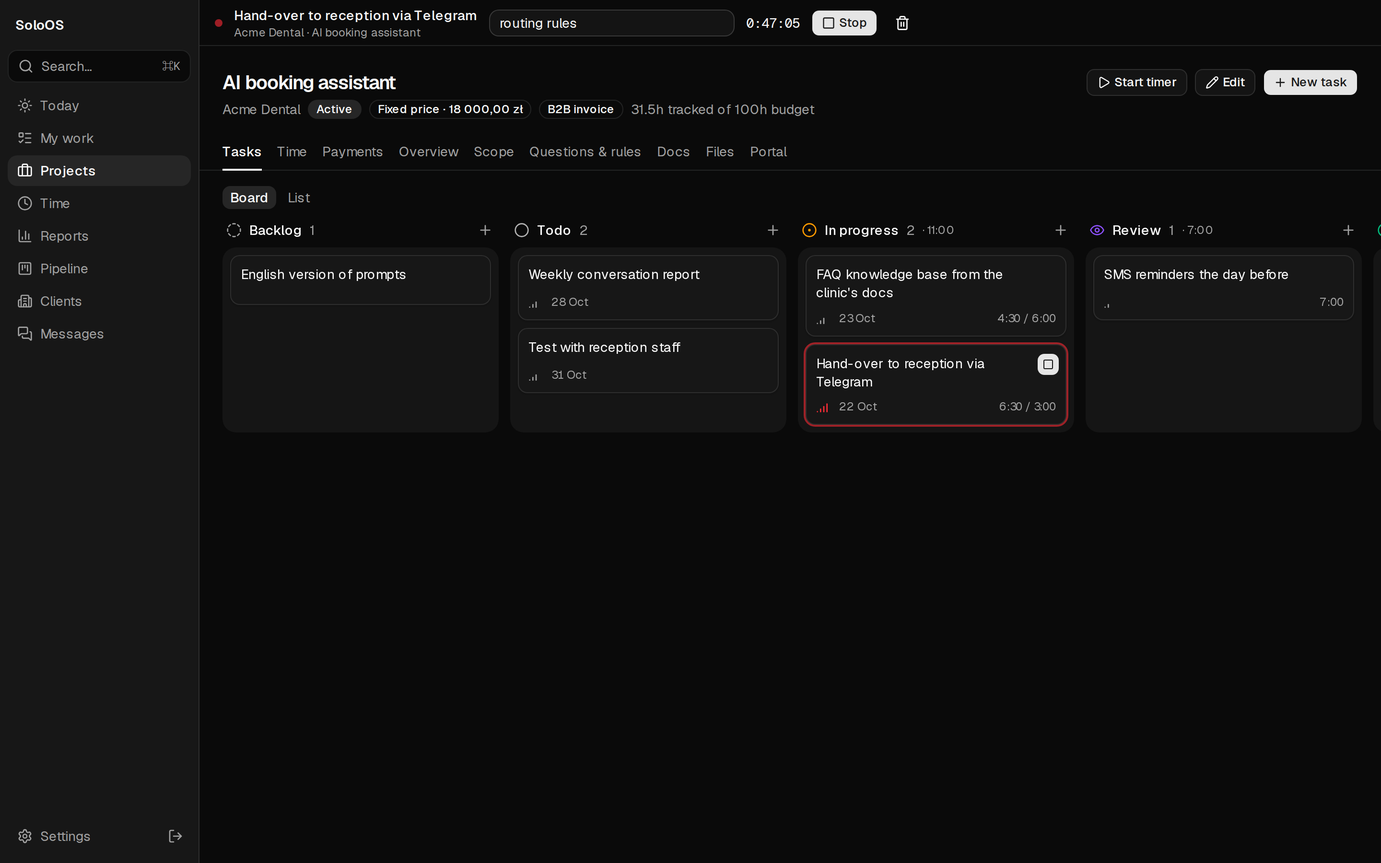
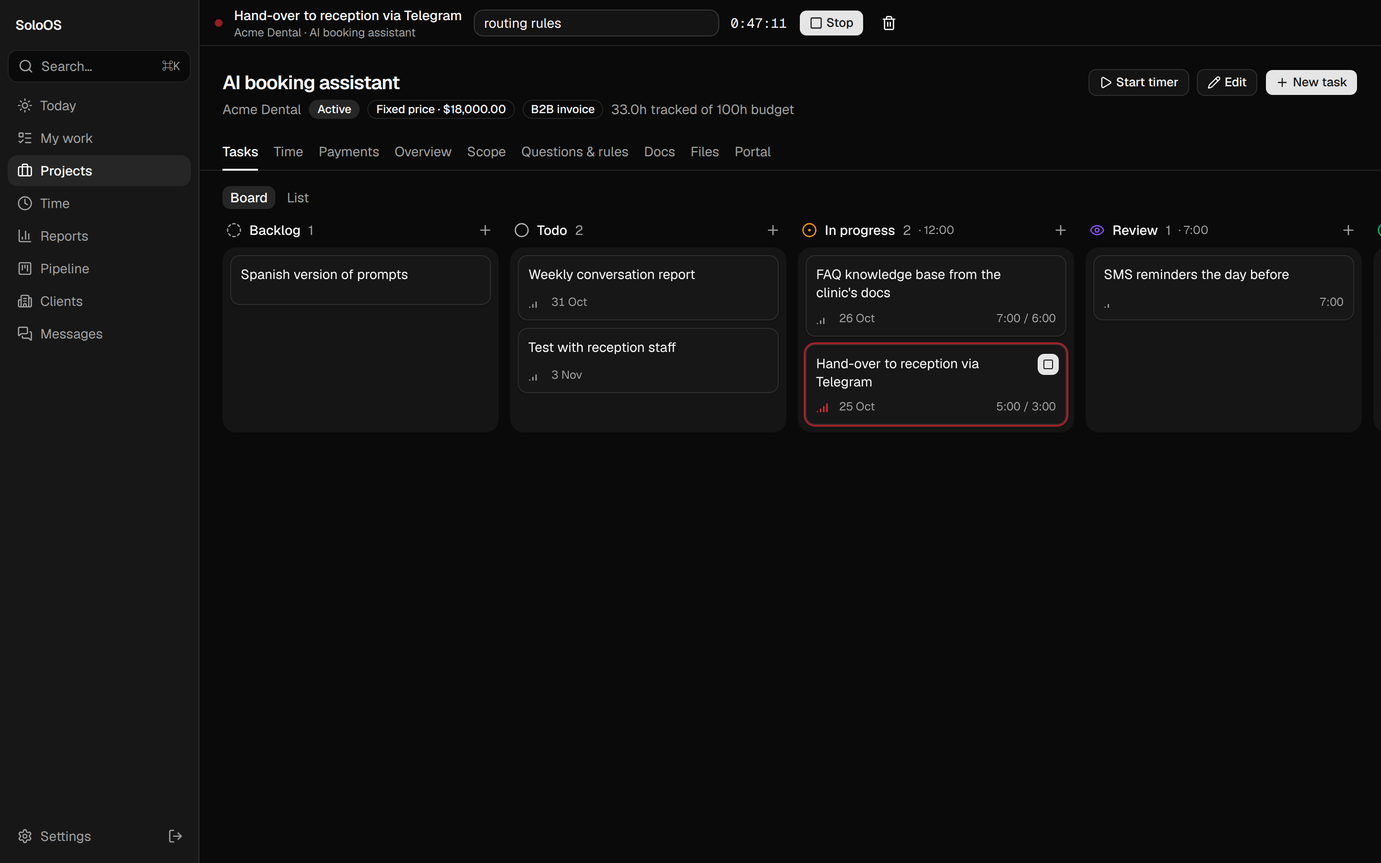
README media in English with USD; sharper font rendering
Demo data is now English with dollar prices; the media script renders fonts
without heavy hinting and records English chats and the English portal.

diff --git a/scripts/demo-seed.ts b/scripts/demo-seed.ts
@@ -1,4 +1,4 @@
-// Fills a database with made-up clients, projects, time and messages for screenshots and demos.
+// Fills a database with made-up clients (in English, prices in USD), projects, time and messages for screenshots and demos.
 // Only runs against a database whose name contains "demo"; wipes it first.
 // Usage: DATABASE_URL=postgres://127.0.0.1:5432/soloos_demo pnpm db:migrate && DATABASE_URL=… pnpm demo:seed
 import "dotenv/config";
@@ -31,26 +31,26 @@ async function main() {
   await wipe();
 
   // ---------- Clients ----------
-  const [personal, acme, northwind, lumen, kowalski, greenfit] = await db
+  const [personal, acme, northwind, lumen, kestrel, greenfit] = await db
     .insert(s.organizations)
     .values([
-      { name: "Personal", kind: "person", status: "internal", notesMd: "Personal and side projects." },
-      { name: "Acme Dental", status: "active", website: "https://acme-dental.example", defaultRate: 18000, notesMd: "Three clinics in Kraków. Decisions go through Anna; IT questions to Tomek." },
-      { name: "Northwind Bakery", status: "active", website: "https://northwind.example", defaultRate: 16000, notesMd: "Online shop + 2 cafés. Pays on time." },
-      { name: "Studio Lumen", status: "past", website: "https://lumen.example", defaultRate: 15000 },
-      { name: "Kowalski Logistics", status: "lead", website: "https://kowalski-logistics.example" },
-      { name: "GreenFit Gym", status: "lead" },
+      { name: "Personal", kind: "person", status: "internal", currency: "USD", notesMd: "Personal and side projects." },
+      { name: "Acme Dental", status: "active", website: "https://acme-dental.example", currency: "USD", defaultRate: 9500, notesMd: "Three clinics in Austin. Decisions go through Sarah; IT questions to Tom." },
+      { name: "Northwind Bakery", status: "active", website: "https://northwind.example", currency: "USD", defaultRate: 8500, notesMd: "Online shop + 2 cafés. Pays on time." },
+      { name: "Studio Lumen", status: "past", website: "https://lumen.example", currency: "USD", defaultRate: 8000 },
+      { name: "Kestrel Logistics", status: "lead", currency: "USD", website: "https://kestrel-logistics.example" },
+      { name: "GreenFit Gym", status: "lead", currency: "USD" },
     ])
     .returning();
-  const [cAnna, cTomek, cOla, , cPiotr, cKasia] = await db
+  const [cSarah, cTom, cOlivia, , cPeter, cKate] = await db
     .insert(s.contacts)
     .values([
-      { orgId: acme.id, name: "Anna Wiśniewska", role: "Practice manager", emails: ["anna@acme-dental.example"], phone: "+48 600 100 200" },
-      { orgId: acme.id, name: "Tomek Zieliński", role: "IT", emails: ["it@acme-dental.example"], telegram: "@tomek_it" },
-      { orgId: northwind.id, name: "Ola Nowicka", role: "Owner", emails: ["ola@northwind.example"] },
-      { orgId: lumen.id, name: "Marek Lis", role: "Creative director", emails: ["marek@lumen.example"] },
-      { orgId: kowalski.id, name: "Piotr Kowalski", role: "CEO", emails: ["piotr@kowalski-logistics.example"] },
-      { orgId: greenfit.id, name: "Kasia Mazur", role: "Manager", facebookUrl: "https://facebook.com/kasia.mazur.example" },
+      { orgId: acme.id, name: "Sarah Miller", role: "Practice manager", emails: ["sarah@acme-dental.example"], phone: "+1 512 555 0142" },
+      { orgId: acme.id, name: "Tom Becker", role: "IT", emails: ["it@acme-dental.example"], telegram: "@tom_it" },
+      { orgId: northwind.id, name: "Olivia Hart", role: "Owner", emails: ["olivia@northwind.example"] },
+      { orgId: lumen.id, name: "Mark Lee", role: "Creative director", emails: ["marek@lumen.example"] },
+      { orgId: kestrel.id, name: "Peter Grant", role: "CEO", emails: ["peter@kestrel-logistics.example"] },
+      { orgId: greenfit.id, name: "Kate Moore", role: "Manager", facebookUrl: "https://facebook.com/kate.moore.example" },
     ])
     .returning();
 
@@ -65,13 +65,14 @@ async function main() {
         pricing: "fixed",
         fixedPrice: 1800000,
         budgetHours: 100,
-        hourlyRate: 18000,
+        hourlyRate: 9500,
+        currency: "USD",
         startDate: day(-34),
         dueDate: day(24),
         briefMd:
           "Chat and phone assistant that books, moves and cancels appointments for **Acme Dental** (3 clinics).\n\n- Answers FAQ (prices only from the price list, never quotes treatment costs)\n- Books into the clinic calendar via n8n\n- Hands over to reception when unsure\n\n**Done when:** 80% of booking requests handled without a human, for 2 weeks.",
         scopeMd:
-          "1. Website chat widget (PL/EN)\n2. Booking, rescheduling and cancelling through the calendar API\n3. FAQ from the clinic's knowledge base\n4. Hand-over to reception (email + Telegram)\n5. Weekly report of conversations",
+          "1. Website chat widget (English/Spanish)\n2. Booking, rescheduling and cancelling through the calendar API\n3. FAQ from the clinic's knowledge base\n4. Hand-over to reception (email + Telegram)\n5. Weekly report of conversations",
         scopeBaselinedAt: subDays(now, 30),
         portalToken: "demo-acme-portal-token-0123456789abcdefghij",
         portalProgress: true,
@@ -81,16 +82,17 @@ async function main() {
       {
         orgId: northwind.id,
         name: "Invoice automation",
-        contractType: "umowa_zlecenie",
+        contractType: "b2b",
         pricing: "hourly",
-        hourlyRate: 16000,
+        hourlyRate: 8500,
+        currency: "USD",
         budgetHours: 40,
         startDate: day(-20),
         dueDate: day(10),
         briefMd: "Shop orders → invoices in the accounting system, sent to the customer automatically. Monthly summary for the accountant.",
       },
-      { orgId: lumen.id, name: "Portfolio website", status: "done", contractType: "useme", pricing: "fixed", fixedPrice: 650000, startDate: day(-90), dueDate: day(-45) },
-      { orgId: personal.id, name: "SoloOS", pricing: "none", contractType: "internal" },
+      { orgId: lumen.id, name: "Portfolio website", status: "done", contractType: "b2b", pricing: "fixed", fixedPrice: 650000, currency: "USD", startDate: day(-90), dueDate: day(-45) },
+      { orgId: personal.id, name: "SoloOS", pricing: "none", contractType: "internal", currency: "USD" },
     ])
     .returning();
 
@@ -113,7 +115,7 @@ async function main() {
         t(booking.id, "SMS reminders the day before", "review", { priority: 1 }),
         t(booking.id, "Weekly conversation report", "todo", { priority: 2, dueDate: day(6) }),
         t(booking.id, "Test with reception staff", "todo", { priority: 2, dueDate: day(9) }),
-        t(booking.id, "English version of prompts", "backlog"),
+        t(booking.id, "Spanish version of prompts", "backlog"),
         t(invoices.id, "Map shop order fields to invoice", "done", { priority: 2 }),
         t(invoices.id, "Send invoice PDF to the customer", "in_progress", { priority: 3, dueDate: day(2) }),
         t(invoices.id, "Monthly summary for the accountant", "todo", { priority: 1, dueDate: day(8) }),
@@ -142,7 +144,8 @@ async function main() {
   const entries: (typeof s.timeEntries.$inferInsert)[] = [];
   for (let d = -35; d <= 0; d++) {
     const date = addDays(today, d);
-    if (date.getDay() === 0 || date.getDay() === 6) continue;
+    // Weekdays only, but always today, so "Today" has numbers whatever day the media is recorded.
+    if (d !== 0 && (date.getDay() === 0 || date.getDay() === 6)) continue;
     const plan: [number, number, number][] = [
       [booking.id, 9, 120 + ((d * 37) % 4) * 30],
       ...(d > -21 ? ([[invoices.id, 14, 60 + ((d * 13) % 3) * 30]] as [number, number, number][]) : []),
@@ -151,14 +154,14 @@ async function main() {
     for (const [projectId, hour, min] of plan) {
       const list = notes[projectId];
       const [taskTitle, note] = list[Math.abs(d) % list.length];
-      const rate = projectId === booking.id ? 18000 : 16000;
+      const rate = projectId === booking.id ? 9500 : 8500;
       const startedAt = at(d, hour, 15);
       entries.push({ projectId, taskId: task(taskTitle), startedAt, endedAt: new Date(+startedAt + min * 60_000), durationMin: min, note, rateSnapshot: rate });
     }
   }
   for (let d = -75; d <= -50; d += 3) {
     const startedAt = at(d, 10);
-    entries.push({ projectId: lumenSite.id, startedAt, endedAt: new Date(+startedAt + 180 * 60_000), durationMin: 180, note: "layout + CMS", rateSnapshot: 15000 });
+    entries.push({ projectId: lumenSite.id, startedAt, endedAt: new Date(+startedAt + 180 * 60_000), durationMin: 180, note: "layout + CMS", rateSnapshot: 8000 });
   }
   await db.insert(s.timeEntries).values(entries);
   await db.insert(s.runningTimer).values({
@@ -179,33 +182,33 @@ async function main() {
   // ---------- Pipeline ----------
   await db.insert(s.opportunities).values([
     {
-      orgId: kowalski.id,
-      contactId: cPiotr.id,
+      orgId: kestrel.id,
+      contactId: cPeter.id,
       title: "Driver dispatch bot (Telegram)",
       stage: "proposal",
       source: "referral",
-      sourceDetail: "from Ola (Northwind)",
+      sourceDetail: "from Olivia (Northwind)",
       estValue: 2400000,
       nextAction: "Follow up on the proposal",
       nextActionAt: day(-1),
-      offerSlug: "kowalski-dispatch",
+      offerSlug: "kestrel-dispatch",
     },
     {
       orgId: greenfit.id,
-      contactId: cKasia.id,
+      contactId: cKate.id,
       title: "Membership renewals + reminders",
       stage: "contacted",
       source: "fb_group",
-      sourceDetail: "n8n Polska",
-      originalPostMd: "Szukam kogoś, kto zautomatyzuje przypomnienia o karnetach (SMS + mail). Mamy ok. 600 klubowiczów.",
+      sourceDetail: "n8n Community",
+      originalPostMd: "Looking for someone to automate membership renewal reminders (SMS + email). We have about 600 members.",
       estValue: 600000,
       nextAction: "Send questions about their booking system",
       nextActionAt: day(0),
     },
-    { orgId: northwind.id, contactId: cOla.id, title: "Loyalty card for the cafés", stage: "call", source: "email", estValue: 900000, nextAction: "Call on Friday", nextActionAt: day(2) },
+    { orgId: northwind.id, contactId: cOlivia.id, title: "Loyalty card for the cafés", stage: "call", source: "email", estValue: 900000, nextAction: "Call on Friday", nextActionAt: day(2) },
     { orgId: greenfit.id, title: "Website refresh", stage: "new", source: "other", estValue: 400000 },
-    { orgId: acme.id, contactId: cAnna.id, title: "AI booking assistant", stage: "won", source: "referral", estValue: 1800000, projectId: booking.id },
-    { orgId: lumen.id, title: "Online shop", stage: "lost", source: "email", estValue: 1200000, lostReason: "Went with Shopify agency" },
+    { orgId: acme.id, contactId: cSarah.id, title: "AI booking assistant", stage: "won", source: "referral", estValue: 1800000, projectId: booking.id },
+    { orgId: lumen.id, title: "Online shop", stage: "lost", source: "email", estValue: 1200000, lostReason: "Went with a Shopify agency" },
   ]);
 
   // ---------- Messages ----------
@@ -213,22 +216,22 @@ async function main() {
     .insert(s.threads)
     .values({ orgId: acme.id, projectId: booking.id, channel: "telegram", title: "Acme Dental – booking bot", source: "telegram", sourceKey: "telegram:demo-1", lastMessageAt: at(-1, 16, 20) })
     .returning();
-  const [pMe, pAnna, pTomek] = await db
+  const [pMe, pSarah, pTom] = await db
     .insert(s.threadParticipants)
     .values([
       { threadId: thread.id, name: "Me", isMe: true },
-      { threadId: thread.id, name: "Anna Wiśniewska", contactId: cAnna.id },
-      { threadId: thread.id, name: "Tomek Zieliński", contactId: cTomek.id },
+      { threadId: thread.id, name: "Sarah Miller", contactId: cSarah.id },
+      { threadId: thread.id, name: "Tom Becker", contactId: cTom.id },
     ])
     .returning();
   const chat: [typeof pMe, number, number, number, string][] = [
-    [pAnna, -2, 9, 12, "Dzień dobry! Recepcja testowała bota wczoraj, jest super 👏"],
-    [pAnna, -2, 9, 13, "Jedna rzecz: pacjenci pytają o ceny leczenia kanałowego. Bot nie powinien podawać kwot, tylko zaprosić na konsultację."],
-    [pMe, -2, 10, 2, "Dzięki! Jasne, dodam regułę: żadnych cen zabiegów, tylko cennik konsultacji i zaproszenie na wizytę."],
-    [pTomek, -2, 11, 40, "Czy możemy dodać przypomnienia SMS dzień przed wizytą? Mamy już konto w SMSAPI."],
-    [pMe, -2, 12, 5, "Możemy. To poza pierwotnym zakresem, szacuję ok. 6h (+1 080 zł). Wpisuję jako zmianę do akceptacji."],
-    [pAnna, -1, 16, 15, "Akceptujemy SMS-y. I proszę, żeby przekazanie do recepcji szło na Telegram, nie mailem."],
-    [pAnna, -1, 16, 20, "Kiedy możemy zrobić testy z dziewczynami z recepcji?"],
+    [pSarah, -2, 9, 12, "Hi! Reception tried the bot yesterday, they love it 👏"],
+    [pSarah, -2, 9, 13, "One thing: patients ask how much a root canal costs. The bot shouldn't quote prices, just invite them to a consultation."],
+    [pMe, -2, 10, 2, "Thanks! Sure, I'll add a rule: no treatment prices, only the consultation fee and an invitation to book."],
+    [pTom, -2, 11, 40, "Could we add SMS reminders the day before the visit? We already have a Twilio account."],
+    [pMe, -2, 12, 5, "We can. It's outside the original scope, about 6h (+$570). I'll log it as a change for you to approve."],
+    [pSarah, -1, 16, 15, "SMS reminders approved. And please send hand-overs to reception on Telegram, not by email."],
+    [pSarah, -1, 16, 20, "When can we run a test with the reception team?"],
   ];
   const msgs = await db
     .insert(s.messages)
@@ -244,65 +247,65 @@ async function main() {
     finishedAt: subDays(now, 1),
     result: {
       summary:
-        "Recepcja Acme Dental przetestowała bota i jest zadowolona. Klientka prosi, by bot nie podawał cen zabiegów, a przekazanie do recepcji szło przez Telegram. IT chce przypomnień SMS (poza zakresem, ok. 6h) – klientka je zaakceptowała. Otwarte pytanie: termin testów z recepcją.",
+        "Acme Dental's reception tested the bot and is happy with it. Sarah wants the bot to never quote treatment prices and hand-overs to go to reception on Telegram. Tom asked for SMS reminders (outside the scope, about 6h), which Sarah approved. Still open: when to test with the reception team.",
       decisions: [
-        { title: "Przekazanie do recepcji przez Telegram zamiast maila", details: "", decidedBy: "Anna (client)", decidedOn: day(-1), sourceMessageId: msgs[5].id },
+        { title: "Hand-overs go to reception on Telegram instead of email", details: "", decidedBy: "Sarah (client)", decidedOn: day(-1), sourceMessageId: msgs[5].id },
       ],
       changeRequests: [
-        { title: "Przypomnienia SMS dzień przed wizytą", details: "Przez konto SMSAPI kliniki.", requestedBy: "Tomek (IT)", hoursImpact: "+6h", priceImpact: 1080, sourceMessageId: msgs[3].id },
+        { title: "SMS reminders the day before the visit", details: "Through the clinic's Twilio account.", requestedBy: "Tom (IT)", hoursImpact: "+6h", priceImpact: 570, sourceMessageId: msgs[3].id },
       ],
-      tasks: [{ title: "Ustalić termin testów z recepcją", dueDate: null }],
-      openQuestions: ["Kiedy możemy zrobić testy z recepcją?"],
-      replyDraft: "Dzień dobry! Dziękuję za akceptację SMS-ów – przekazanie do recepcji przestawię na Telegram jeszcze w tym tygodniu. Testy z recepcją proponuję w czwartek lub piątek o 13:00 – który termin pasuje?",
+      tasks: [{ title: "Schedule a test with the reception team", dueDate: null }],
+      openQuestions: ["When can we test with the reception team?"],
+      replyDraft: "Hi Sarah! Thanks for approving the SMS reminders. I'll switch hand-overs to Telegram this week. For the reception test, how about Thursday or Friday at 1 pm?",
     },
   });
 
   const [mail] = await db
     .insert(s.threads)
-    .values({ orgId: northwind.id, projectId: invoices.id, channel: "email", title: "Re: Faktury dla klientów sklepu", source: "email", sourceKey: "email:demo-2", lastMessageAt: at(-3, 13, 2) })
+    .values({ orgId: northwind.id, projectId: invoices.id, channel: "email", title: "Re: Invoices for shop customers", source: "email", sourceKey: "email:demo-2", lastMessageAt: at(-3, 13, 2) })
     .returning();
-  const [mMe, mOla] = await db
+  const [mMe, mOlivia] = await db
     .insert(s.threadParticipants)
     .values([
       { threadId: mail.id, name: "Me", isMe: true },
-      { threadId: mail.id, name: "Ola Nowicka", handle: "ola@northwind.example", contactId: cOla.id },
+      { threadId: mail.id, name: "Olivia Hart", handle: "olivia@northwind.example", contactId: cOlivia.id },
     ])
     .returning();
   await db.insert(s.messages).values([
-    { threadId: mail.id, participantId: mOla.id, sentAt: at(-4, 9), bodyMd: "Hej, czy faktury mogą iść od razu po opłaceniu zamówienia, a nie po wysyłce?", sourceKey: "email:demo-2:1" },
-    { threadId: mail.id, participantId: mMe.id, sentAt: at(-3, 13, 2), bodyMd: "Tak, przestawię wyzwalacz na status „opłacone”. Korekty przy zwrotach zrobimy osobno.", sourceKey: "email:demo-2:2" },
+    { threadId: mail.id, participantId: mOlivia.id, sentAt: at(-4, 9), bodyMd: "Hi, could invoices go out as soon as an order is paid, not when it ships?", sourceKey: "email:demo-2:1" },
+    { threadId: mail.id, participantId: mMe.id, sentAt: at(-3, 13, 2), bodyMd: "Yes, I'll switch the trigger to the \"paid\" status. Refunds (credit notes) we'll handle separately.", sourceKey: "email:demo-2:2" },
   ]);
 
   await db.insert(s.interactions).values([
-    { orgId: acme.id, contactId: cAnna.id, projectId: booking.id, channel: "meeting", direction: "both", occurredAt: at(-8, 11), title: "Demo for the clinic owners", bodyMd: "Showed booking + FAQ. Owners happy; want SMS reminders later." },
-    { orgId: kowalski.id, contactId: cPiotr.id, channel: "call", direction: "both", occurredAt: at(-6, 15), title: "Discovery call", bodyMd: "12 drivers, orders in Excel today. Wants Telegram bot for dispatch + daily summary." },
+    { orgId: acme.id, contactId: cSarah.id, projectId: booking.id, channel: "meeting", direction: "both", occurredAt: at(-8, 11), title: "Demo for the clinic owners", bodyMd: "Showed booking + FAQ. Owners happy; want SMS reminders later." },
+    { orgId: kestrel.id, contactId: cPeter.id, channel: "call", direction: "both", occurredAt: at(-6, 15), title: "Discovery call", bodyMd: "12 drivers, orders in Excel today. Wants Telegram bot for dispatch + daily summary." },
   ]);
 
   // ---------- Scope, decisions, rules, questions ----------
   const [dTelegram, dPrices] = await db
     .insert(s.decisions)
     .values([
-      { projectId: booking.id, decidedOn: day(-1), title: "Hand-over to reception goes to Telegram, not email", decidedBy: "Anna (client)", sourceMessageId: msgs[5].id, sourceNote: "Telegram" },
-      { projectId: booking.id, decidedOn: day(-2), title: "The assistant never quotes treatment prices", detailsMd: "Only the consultation price list; everything else → invite to a consultation.", decidedBy: "Anna (client)", sourceMessageId: msgs[1].id },
+      { projectId: booking.id, decidedOn: day(-1), title: "Hand-over to reception goes to Telegram, not email", decidedBy: "Sarah (client)", sourceMessageId: msgs[5].id, sourceNote: "Telegram" },
+      { projectId: booking.id, decidedOn: day(-2), title: "The assistant never quotes treatment prices", detailsMd: "Only the consultation fee; everything else → invite to a consultation.", decidedBy: "Sarah (client)", sourceMessageId: msgs[1].id },
       { projectId: booking.id, decidedOn: day(-28), title: "Calendar stays in the clinic's current system", decidedBy: "both", sourceNote: "kick-off call" },
-      { projectId: booking.id, decidedOn: day(-21), title: "Chat widget in Polish and English", decidedBy: "me" },
+      { projectId: booking.id, decidedOn: day(-21), title: "Chat widget in English and Spanish", decidedBy: "me" },
     ])
     .returning();
   await db.insert(s.changeRequests).values([
-    { projectId: booking.id, title: "SMS reminders the day before", detailsMd: "Through the clinic's SMSAPI account.", requestedBy: "Tomek (IT)", requestedOn: day(-2), hoursImpactMin: 360, priceImpact: 108000, status: "approved", decidedOn: day(-1), sourceMessageId: msgs[3].id },
-    { projectId: booking.id, title: "Voice channel (phone line)", requestedBy: "Anna (client)", requestedOn: day(-5), hoursImpactMin: 1800, priceImpact: 540000, status: "proposed" },
-    { projectId: booking.id, title: "Drop the weekly PDF report", requestedBy: "Anna (client)", requestedOn: day(-15), hoursImpactMin: -120, priceImpact: -36000, status: "rejected", decidedOn: day(-14) },
+    { projectId: booking.id, title: "SMS reminders the day before", detailsMd: "Through the clinic's Twilio account.", requestedBy: "Tom (IT)", requestedOn: day(-2), hoursImpactMin: 360, priceImpact: 57000, status: "approved", decidedOn: day(-1), sourceMessageId: msgs[3].id },
+    { projectId: booking.id, title: "Voice channel (phone line)", requestedBy: "Sarah (client)", requestedOn: day(-5), hoursImpactMin: 1800, priceImpact: 285000, status: "proposed" },
+    { projectId: booking.id, title: "Drop the weekly PDF report", requestedBy: "Sarah (client)", requestedOn: day(-15), hoursImpactMin: -120, priceImpact: -19000, status: "rejected", decidedOn: day(-14) },
   ]);
   await db.insert(s.businessRules).values([
-    { projectId: booking.id, code: "BR-01", title: "Never quote treatment prices", kind: "constraint", detailsMd: "Only the consultation price list.", implementedIn: "main prompt", sourceDecisionId: dPrices.id },
+    { projectId: booking.id, code: "BR-01", title: "Never quote treatment prices", kind: "constraint", detailsMd: "Only the consultation fee.", implementedIn: "main prompt", sourceDecisionId: dPrices.id },
     { projectId: booking.id, code: "BR-02", title: "Unsure → hand over to reception on Telegram", kind: "action", implementedIn: "handover workflow", sourceDecisionId: dTelegram.id },
     { projectId: booking.id, code: "BR-03", title: "Bookings only during opening hours, min. 2h ahead", kind: "constraint", implementedIn: "booking workflow" },
     { projectId: booking.id, code: "BR-04", title: "Each clinic has its own calendar", kind: "fact" },
   ]);
   await db.insert(s.openQuestions).values([
-    { projectId: booking.id, code: "Q-01", question: "When can we test with the reception staff?", owner: "Anna (client)", askedOn: day(-1), dueDate: day(3) },
-    { projectId: booking.id, code: "Q-02", question: "Do children's appointments need a parent's phone number?", owner: "Anna (client)", whereInDocs: "2. Booking flow", askedOn: day(-6), status: "in_progress" },
-    { projectId: booking.id, code: "Q-03", question: "Which clinic is the default when the patient doesn't say?", owner: "Tomek (IT)", askedOn: day(-20), status: "answered", answerMd: "The one closest to the city centre (Rynek).", closedOn: day(-18) },
+    { projectId: booking.id, code: "Q-01", question: "When can we test with the reception staff?", owner: "Sarah (client)", askedOn: day(-1), dueDate: day(3) },
+    { projectId: booking.id, code: "Q-02", question: "Do children's appointments need a parent's phone number?", owner: "Sarah (client)", whereInDocs: "2. Booking flow", askedOn: day(-6), status: "in_progress" },
+    { projectId: booking.id, code: "Q-03", question: "Which clinic is the default when the patient doesn't say?", owner: "Tom (IT)", askedOn: day(-20), status: "answered", answerMd: "The downtown clinic.", closedOn: day(-18) },
   ]);
 
   // ---------- Docs, systems, updates ----------
@@ -318,7 +321,7 @@ flowchart LR
   N --> S[SMS reminder]
 \`\`\`
 
-1. The patient asks in the widget (PL or EN).
+1. The patient asks in the widget (English or Spanish).
 2. The assistant answers FAQ from the knowledge base, never treatment prices (BR-01).
 3. Bookings go through n8n into the clinic's calendar (one per clinic, BR-04).
 4. Anything unclear is handed over to reception on Telegram (BR-02).
@@ -326,7 +329,7 @@ flowchart LR
   const pages = await db
     .insert(s.docPages)
     .values([
-      { projectId: booking.id, title: "1. Overview", bodyMd: "# Overview\n\nAI assistant for booking appointments in three Acme Dental clinics.\n\n| | |\n|---|---|\n| Channels | website chat, Telegram (reception) |\n| Languages | Polish, English |\n| Go-live | early December |", sortOrder: 1000, published: true },
+      { projectId: booking.id, title: "1. Overview", bodyMd: "# Overview\n\nAI assistant for booking appointments in three Acme Dental clinics.\n\n| | |\n|---|---|\n| Channels | website chat, Telegram (reception) |\n| Languages | English, Spanish |\n| Go-live | early December |", sortOrder: 1000, published: true },
       { projectId: booking.id, title: "2. Booking flow", bodyMd: flow, sortOrder: 2000, published: true },
       { projectId: booking.id, title: "3. Data and security", bodyMd: "# Data and security\n\n- No medical data is stored in the chat logs.\n- Credentials live in n8n, never in documents.", sortOrder: 3000 },
     ])

diff --git a/scripts/readme-media.ts b/scripts/readme-media.ts
@@ -95,7 +95,8 @@ async function gif(browser: Browser, name: string, script: (page: Page) => Promi
 
 async function main() {
   mkdirSync(out, { recursive: true });
-  const browser = await chromium.launch();
+  // Without this, headless Chromium on Linux hints fonts so hard that letter spacing looks off.
+  const browser = await chromium.launch({ args: ["--font-render-hinting=none"] });
   await screenshots(browser);
 
   await gif(browser, "command-palette", async (page) => {
@@ -147,9 +148,9 @@ async function main() {
       await box.click();
       await box.fill(
         [
-          "21.10.2026, 09:12 - Ola Nowicka: Hej! Czy możemy dodać faktury korygujące przy zwrotach?",
-          "21.10.2026, 09:14 - Me: Tak, to ok. 4h. Wycenę wyślę dziś.",
-          "21.10.2026, 09:20 - Ola Nowicka: Super, dzięki 🙌",
+          "10/21/26, 9:12 AM - Olivia Hart: Hi! Could we also handle credit notes for refunds?",
+          "10/21/26, 9:14 AM - Me: Sure, that's about 4h. I'll send a quote today.",
+          "10/21/26, 9:20 AM - Olivia Hart: Great, thanks 🙌",
         ].join("\n"),
       );
       await page.waitForTimeout(900);
@@ -169,7 +170,7 @@ async function main() {
     "portal",
     async (page) => {
       await page.waitForTimeout(800);
-      for (const link of ["Decyzje", "2. Booking flow", "Raport godzin"]) {
+      for (const link of ["Decisions", "2. Booking flow", "Hours report"]) {
         await page.getByRole("link", { name: link }).first().click();
         await page.waitForTimeout(1800);
       }

diff --git a/README.md b/README.md
@@ -103,7 +103,7 @@ SoloOS is also an MCP server, so Claude (claude.ai, Desktop, mobile, Claude Code
 
 ### Client portal
 
-A read-only link per project for the client (in Polish): progress, published updates, selected doc pages, the decision
+A read-only link per project for the client, in English or Polish: progress, published updates, selected doc pages, the decision
 log and an optional hours report, plus a PDF export. It never shows rates, notes or messages.
 
 ![Client portal: decisions, a doc page with a diagram, the hours report](docs/media/portal.gif)
@@ -194,7 +194,7 @@ project timelines show them interleaved with logged conversations.
   and Messenger copies and "Name: text" logs are split automatically; fix anything on screen before saving.
   Logged conversations have a ✂ button to convert them the same way.
 - **Telegram:** Settings → Telegram chats, upload `result.json` from Telegram Desktop's JSON export.
-- **Email (IMAP):** set `IMAP_HOST` (Hostinger: `imap.hostinger.com`), `IMAP_USER`, `IMAP_PASSWORD`, optionally
+- **Email (IMAP):** set `IMAP_HOST` (e.g. `imap.example.com`), `IMAP_USER`, `IMAP_PASSWORD`, optionally
   `IMAP_MAILBOXES` (default `INBOX,INBOX.Sent`), `EMAIL_ME_ADDRESSES` (other addresses that are you) and
   `IMAP_SINCE_DAYS` (first sync window, default 30). Only mail to/from a contact's email address is kept, replies are
   threaded by Message-ID and nothing is imported twice. Run it from Settings → Email → Sync now, or on a schedule:
@@ -217,9 +217,11 @@ create or copy each item yourself. Two ways to run it (`AI_PROVIDER`):
 
 ## Client portal
 
-Project → Portal → Turn on gives a read-only link (`/p/<token>`) for the client: task progress, updates you publish,
-and doc pages you tick (always their latest version, diagrams zoomable). It never shows rates, hours, notes or
-messages. "New link" replaces a leaked link; "Turn off" disables it.
+Project → Portal → Turn on gives a read-only link (`/p/<token>`) for the client: updates you publish and doc pages you
+tick (always their latest version, diagrams zoomable), plus optional task progress, decision log and hours report
+(hours, value and payments). "Download PDF" exports the docs. It never shows notes, messages or internal pages.
+"Client language" switches the portal between English and Polish. "New link" replaces a leaked link; "Turn off"
+disables it.
 
 ## Claude (MCP)
 
